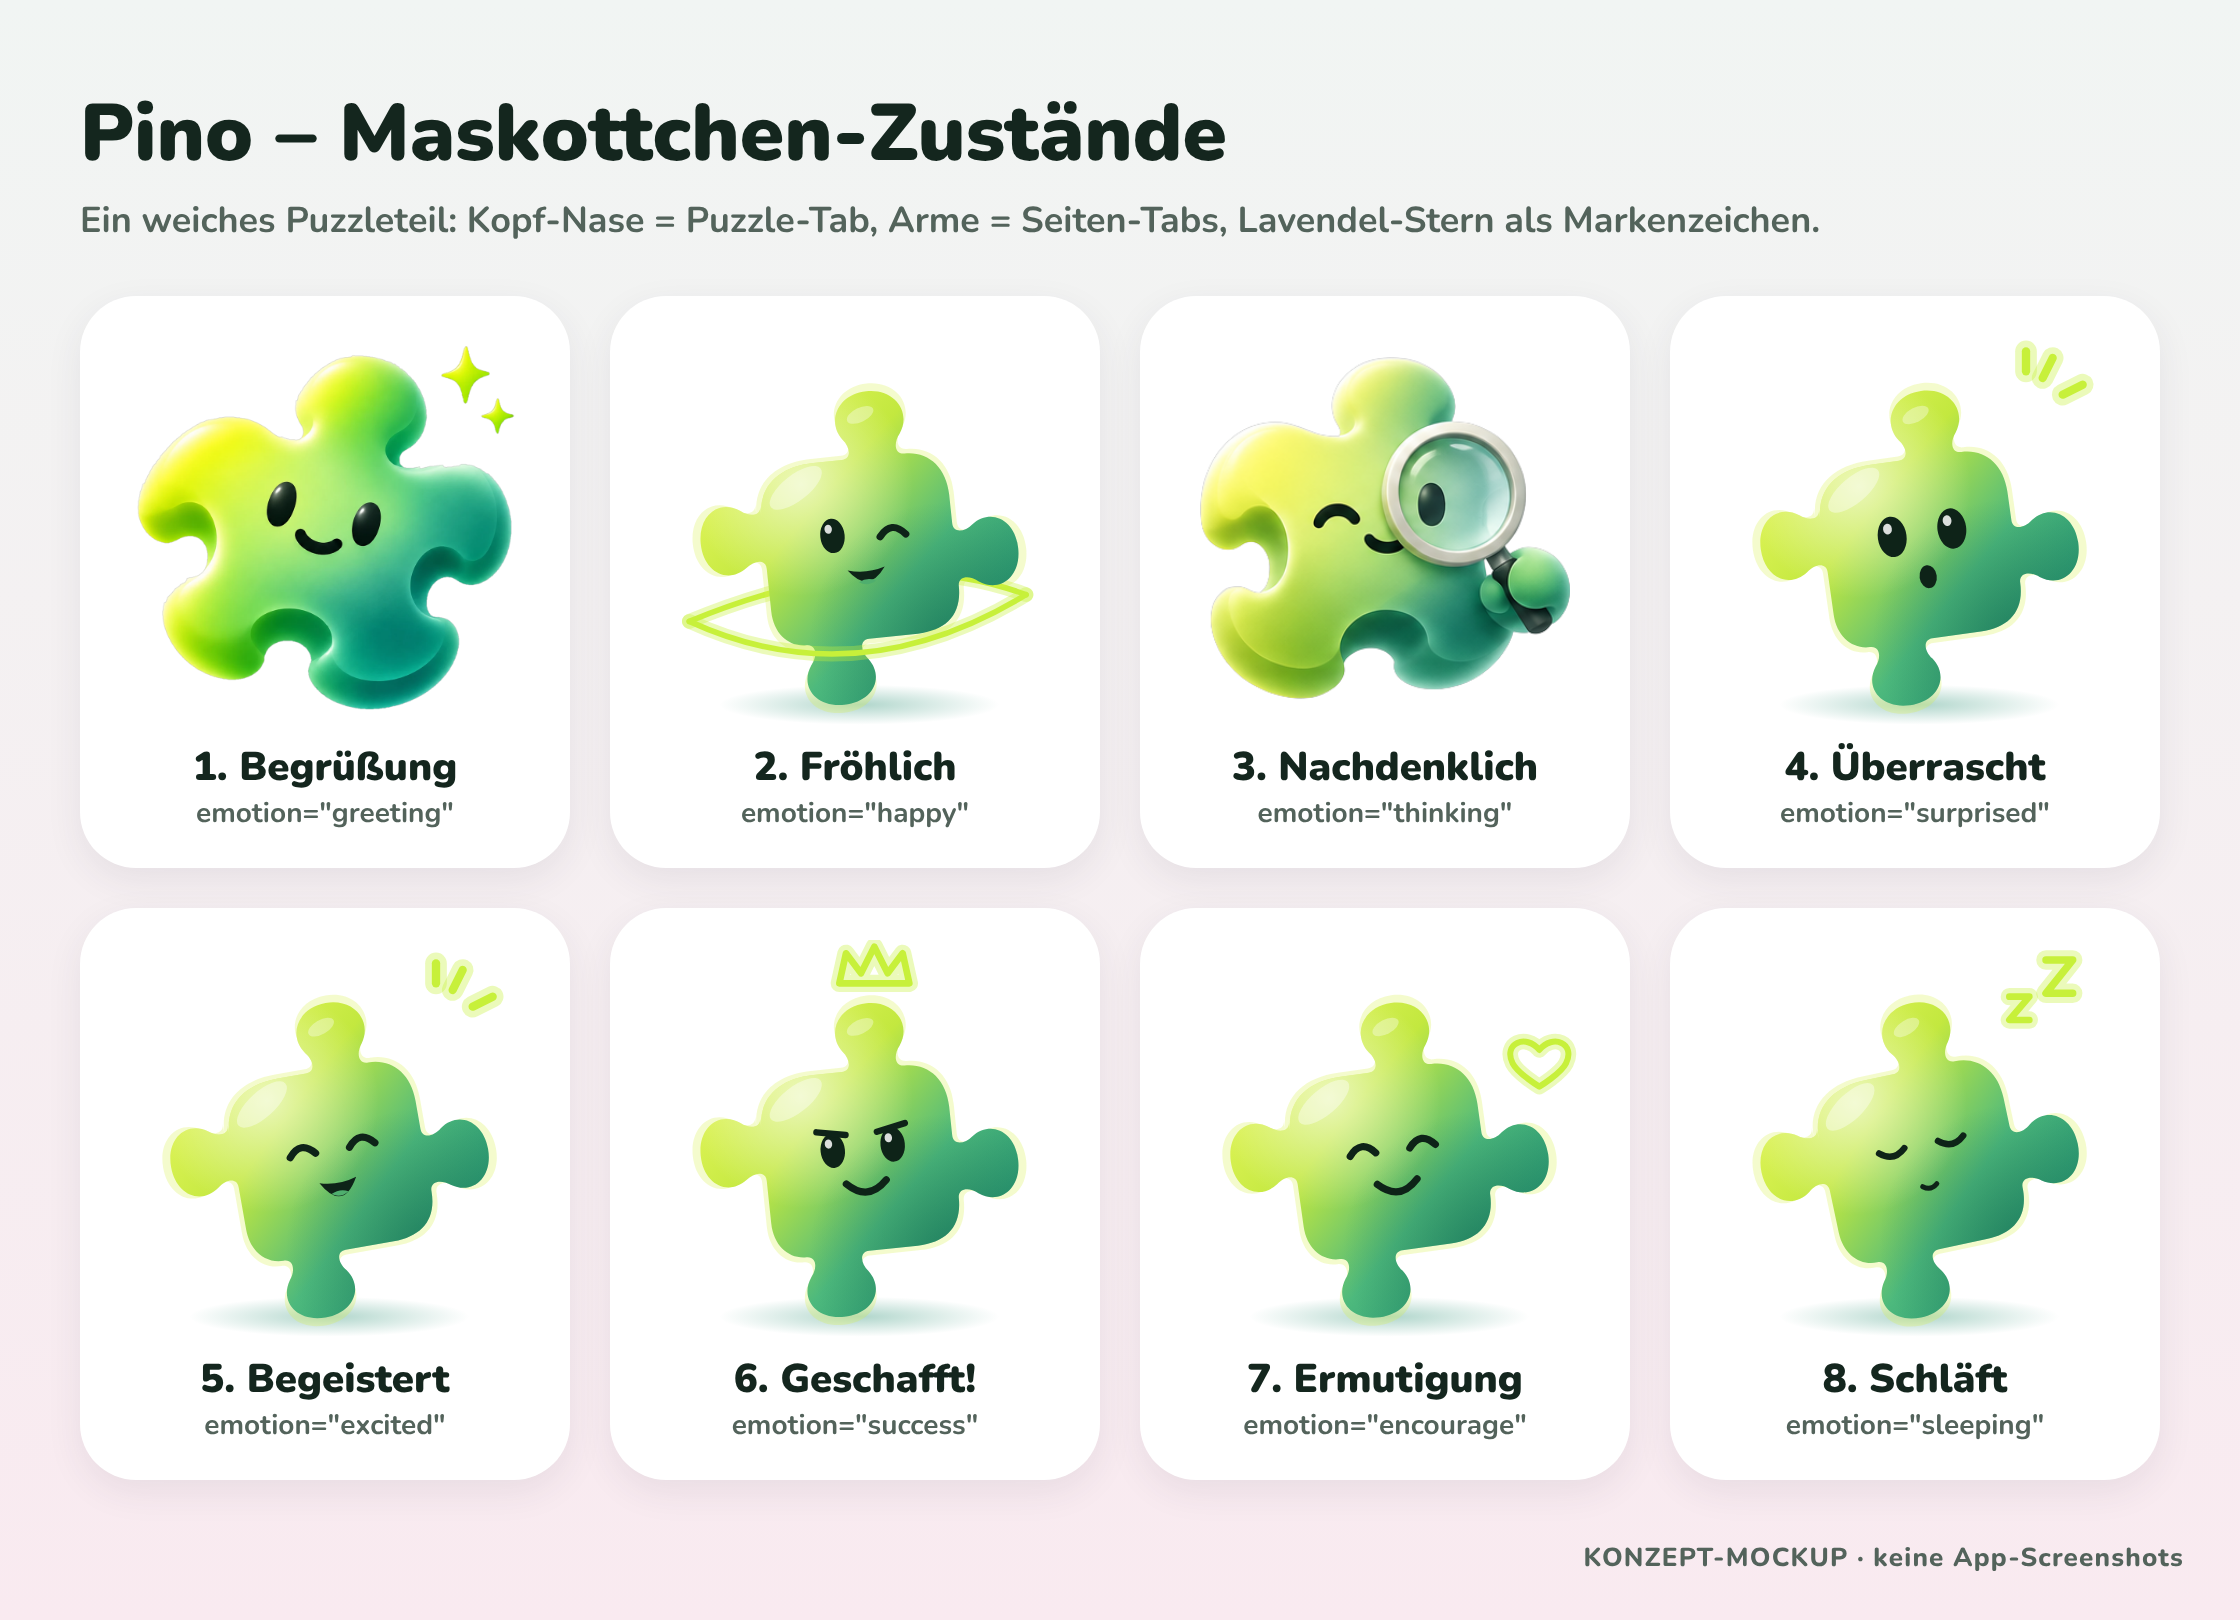
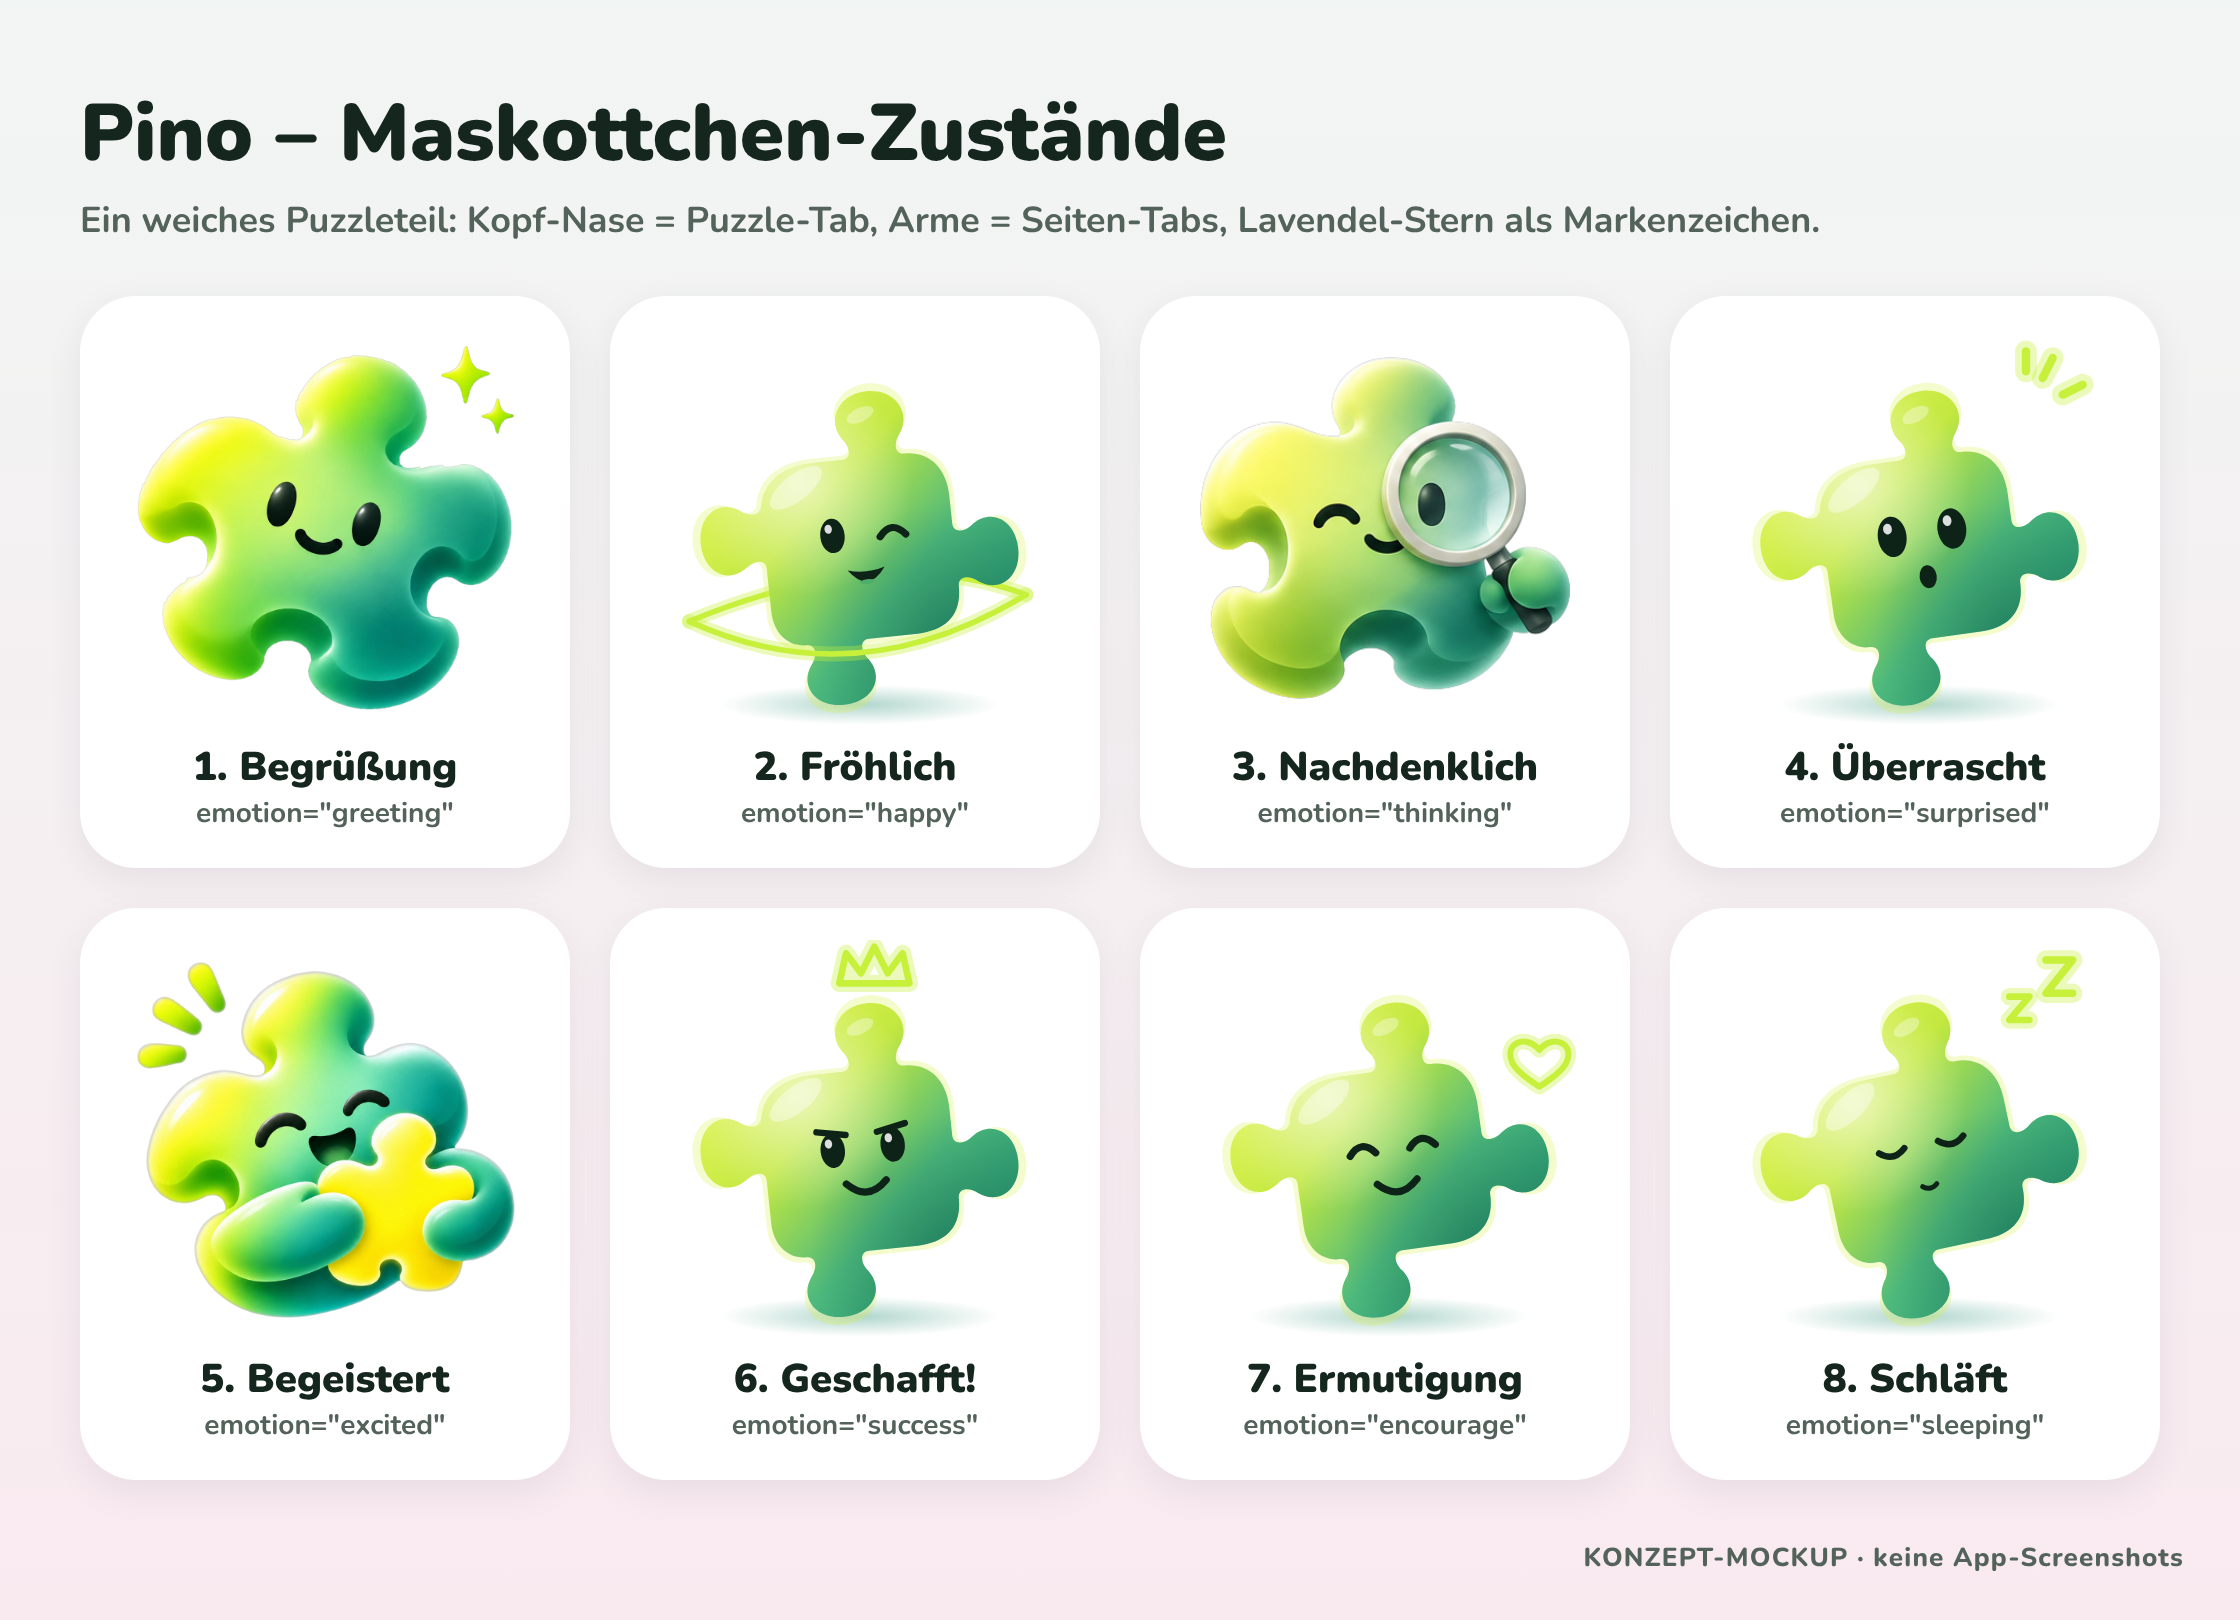
docs: start screen with the floating Pino artwork (change 03)
Claude-Session: https://claude.ai/code/session_01CZ9FFcy5zGQryXQRGVkaUU

Changed region(s): [[0.0625, 0.5864, 0.25, 0.8333]]

diff --git a/docs/design/design-system.md b/docs/design/design-system.md
@@ -102,7 +102,7 @@ Grün-getönt (`ink`), max. zwei Ebenen pro Screen: `shadow.card` (Karten), `sha
 | Tab-Leiste (`BottomNavigation`)                     | Weiße Leiste (Ecken `radius.md`) mit weicher Mulde; die äußeren Tabs rücken so weit ein, dass neben der Mulde immer Leiste bis zur Ecke bleibt. Schatten folgt der Form, nichts scheint in der Mulde durch. Der aktive Tab sitzt in einer lila Blase mit weißem Ring darüber. Beim Wechsel gleiten Mulde und Blase federnd hinüber (`spring.glide`), das Symbol poppt kurz auf, der Name wird fett (seit 2026-11-04, PO-Wunsch) |
 | `<StarRow animated>`                                | Sterne der Feier poppen einzeln auf                                                                                                                                                                                                                                                                                                                                                                                             |
 | `<Sparkles>`                                        | einige funkelnde Sterne um Pino (Feier, Erfolge)                                                                                                                                                                                                                                                                                                                                                                                |
-| `<LoadingScreen>`                                   | Pino wippt im Neon-Ring mit kreisendem Lichtpunkt, Puzzleteile schweben nach oben, Lichtbalken läuft – nichts davon bei „Bewegung reduzieren“                                                                                                                                                                                                                                                                                   |
+| `<LoadingScreen>` (App-Start)                       | Pino schwebt sanft (ohne Ring), Puzzleteile ziehen durch den Hintergrund, Balken füllt sich weich – nichts davon bei „Bewegung reduzieren“                                                                                                                                                                                                                                                                                      |
 | `<Burst>`                                           | kurzer goldener Punkte-Funken, wenn ein Teil einrastet                                                                                                                                                                                                                                                                                                                                                                          |
 | Fortschritt im Spiel                                | Zähler „12/36“ hüpft bei jedem eingerasteten Teil                                                                                                                                                                                                                                                                                                                                                                               |
 

diff --git a/docs/design/mascot-guidelines.md b/docs/design/mascot-guidelines.md
@@ -47,7 +47,8 @@ Die Screens ändern sich dafür nicht – `<Mascot>` zeigt für jede Stimmung mi
 | ---------- | ------------------------------------------------------------------------------------------------ | ------------------------------------------------------------------------------- |
 | `greeting` | **Original PO – Hauptlogo** (Pino mit Funkeln, 2026-11-05), auch App-Icon, Startbild, Ladescreen | 1312 × 1199 px; Hintergrund war eingebrannt (Karomuster) und wurde freigestellt |
 | `thinking` | **Original PO** (Pino mit Lupe)                                                                  | 517 × 401 px – größer besser                                                    |
-| übrige 6   | Vektor-Nachzeichnung (`pino.ts`)                                                                 | Bilder folgen vom PO                                                            |
+| `excited`  | **Original PO** (Pino umarmt ein Puzzleteil, „!“-Striche), Startscreen u. a.                     | 1312 × 1199 px, transparent vom PO                                              |
+| übrige 5   | Vektor-Nachzeichnung (`pino.ts`)                                                                 | Bilder folgen vom PO                                                            |
 
 **So kommt ein neues Bild in die App:** Original unverändert nach `docs/design/mascot-art/` (Datum + Stimmung im Namen), daraus die quadratisch zugeschnittene, transparente App-Fassung nach `packages/ui/assets/mascot/<emotion>.png`, Eintrag in `mascot/art.ts` und `mascot/artSources.ts` (ein Test prüft, dass beide übereinstimmen und die Datei existiert), danach `pnpm brand:assets` und `pnpm design:preview`.
 

diff --git a/docs/previews/milestone-reports/2026-11-05-update-03-logo-loading.md b/docs/previews/milestone-reports/2026-11-05-update-03-logo-loading.md
@@ -18,7 +18,8 @@ Erste Fassung (zuerst falsch verstanden): Der Ladescreen erschien beim Öffnen e
 
 - Lädt im Hintergrund vor: Einstellungen, Bilder, Puzzles, Sterne/Erfolge, Pino-Bilder, Grafik-Engine des Spieltischs.
 - Bleibt **mindestens 4,5 s**, länger wenn nötig; danach blendet er **weich** über den ersten Screen aus.
-- **Gestaltung nach dem Beispiel des PO** ([Vorlage](../../design/reference/2026-11-05-po-loading-screen-reference.png), keine App-Aufnahme): Wiese mit Wolken · Pino (Hauptlogo) wippt · Neon-Ring oben hinter und unten vor Pino mit kreisendem Lichtpunkt · funkelnde Sterne · schwebende Puzzleteile im Hintergrund · „Wird geladen … / Deine Puzzles bereiten sich vor.“
+- **Gestaltung nach dem Beispiel des PO** ([Vorlage](../../design/reference/2026-11-05-po-loading-screen-reference.png), keine App-Aufnahme): Wiese mit Wolken · schwebende Puzzleteile im Hintergrund · „Wird geladen … / Deine Puzzles bereiten sich vor.“
+- **Pino (PO-Wunsch, 2026-11-05):** eigene Figur des PO für den Startscreen – Pino umarmt ein Puzzleteil (transparentes PNG vom PO, als Stimmung „Begeistert“ hinterlegt). **Kein Ring, kein Lichtpunkt, keine Funken um ihn** – er **schwebt nur sanft** auf und ab (10 dp, 1,8 s je Richtung), sein weicher Schatten am Boden wird dabei etwas kleiner.
 - **Prozentzahl wie im Beispiel** – ehrlich: nie mehr als wirklich geladen ist; sie füllt sich gleichmäßig über die Mindestdauer, der Balken gleitet weich.
 - „Bewegung reduzieren“: alles steht still; Screenreader hören „beschäftigt“ und den Fortschritt.
 

diff --git a/docs/product/startup.md b/docs/product/startup.md
@@ -5,7 +5,7 @@ Status: **umgesetzt (2026-11-05, Wunsch des PO)** – `apps/mobile/features/star
 ## Ablauf
 
 1. **Natives Startbild** (Pino auf Grau-Grün), bis die Schrift geladen ist – nur Sekundenbruchteile.
-2. **Startscreen** „Wird geladen … – Deine Puzzles bereiten sich vor.“: Pino im Neon-Ring mit kreisendem Lichtpunkt, schwebende Puzzleteile, funkelnde Sterne, Balken mit Prozentzahl.
+2. **Startscreen** „Wird geladen … – Deine Puzzles bereiten sich vor.“: Pino mit Puzzleteil im Arm schwebt sanft auf und ab (ohne Ring), Puzzleteile ziehen langsam durch den Hintergrund, Balken mit Prozentzahl.
 3. Im Hintergrund wird **alles vorgeladen**: Einstellungen, Bilder, Puzzles, Sterne/Erfolge (Datenbank), Pino-Bilder, Grafik-Engine für den Spieltisch (Web: CanvasKit).
 4. Der Startscreen bleibt **mindestens 4,5 Sekunden** (`STARTUP_MIN_MS`) – damit die Animationen ruhig wirken und nichts nur kurz aufblitzt – und **länger, falls das Laden länger dauert**.
 5. Danach erscheint der erste Screen (Begrüßung bzw. Start), der Startscreen **blendet weich darüber aus**.
